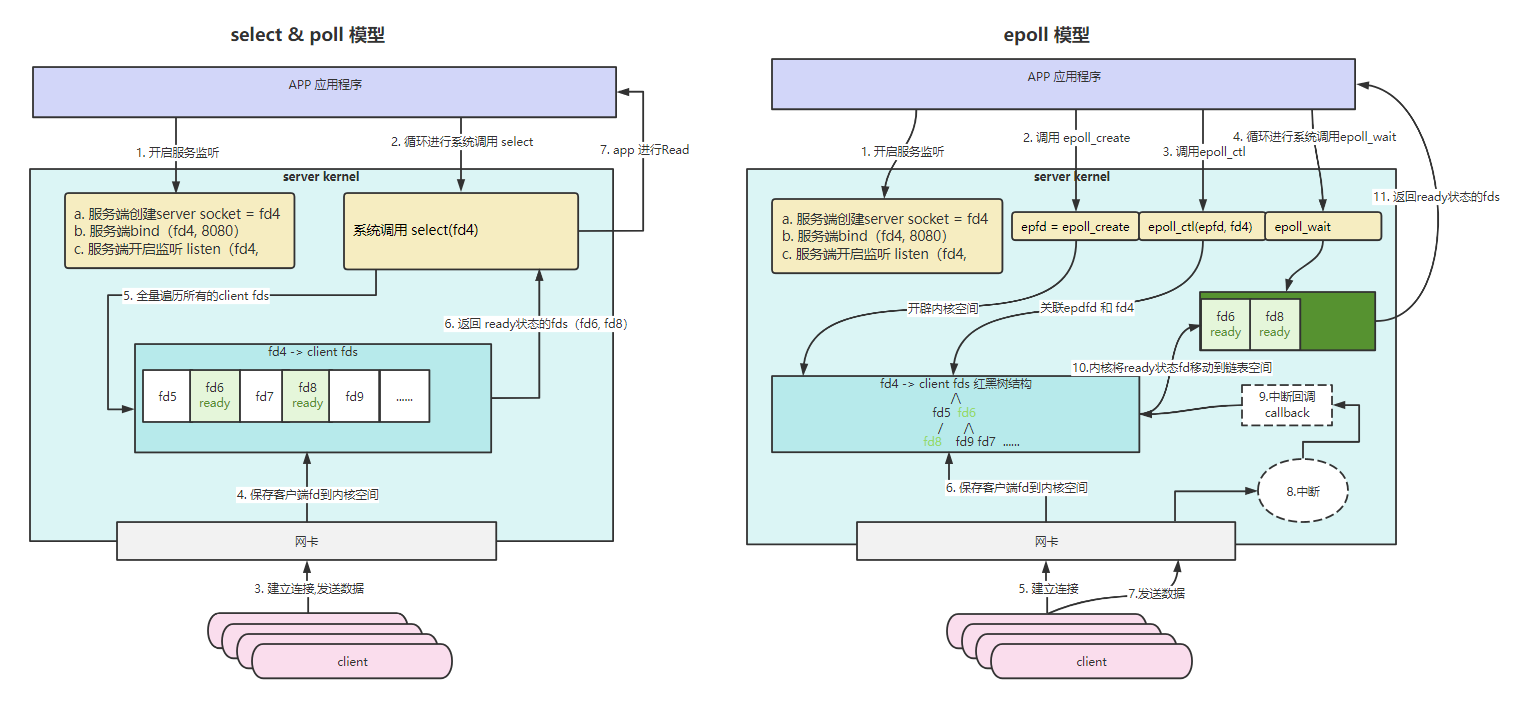
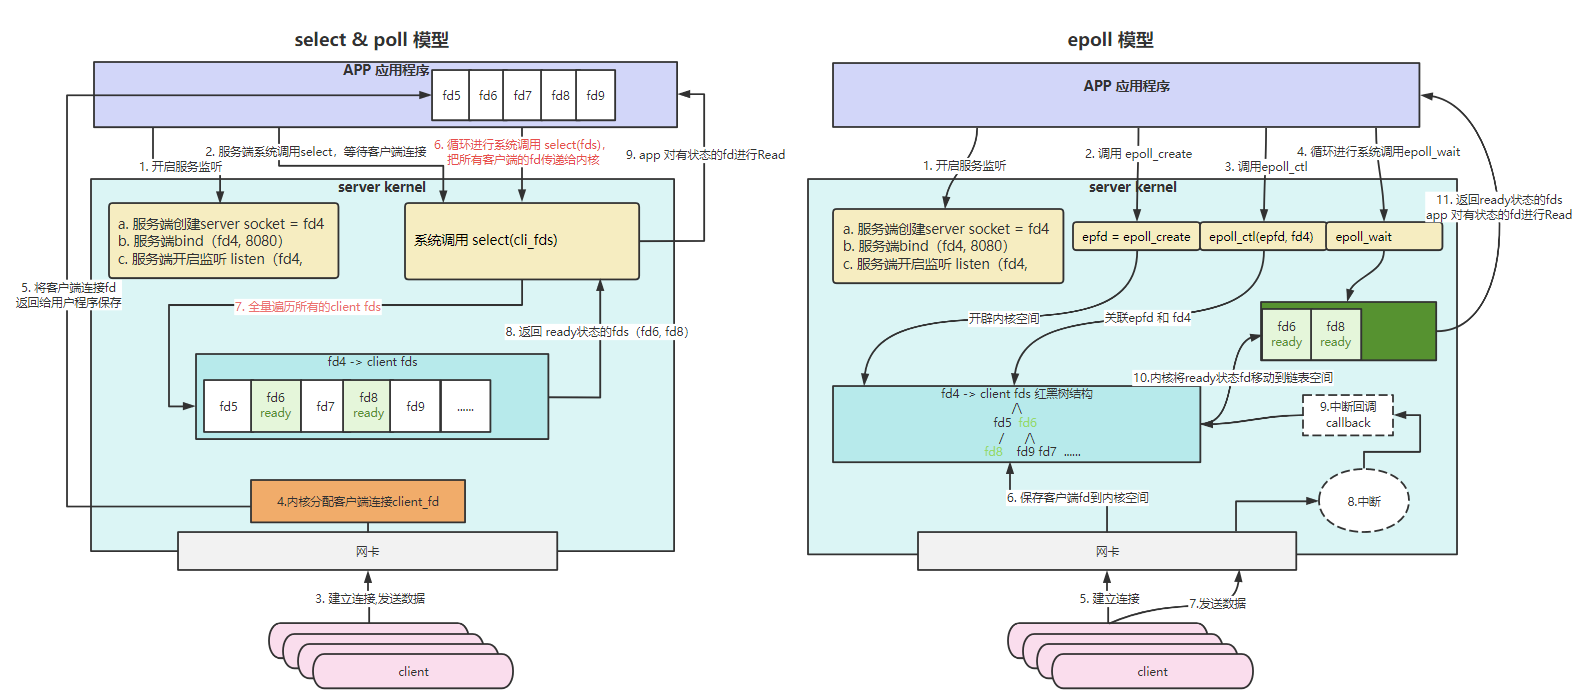
select poll epoll

diff --git a/src/main/java/net/io/nio/Select_PollServer.java b/src/main/java/net/io/nio/Select_PollServer.java
@@ -1,0 +1,96 @@
+package net.io.nio;
+
+import java.io.IOException;
+import java.net.InetSocketAddress;
+import java.nio.ByteBuffer;
+import java.nio.channels.*;
+import java.util.Iterator;
+import java.util.Set;
+
+/**
+ * @author leofee
+ */
+public class Select_PollServer {
+
+    static Selector selector;
+
+    public static void main(String[] args) throws IOException {
+
+        // fd4 = socket(
+        ServerSocketChannel serverSocketChannel = ServerSocketChannel.open()
+                // bind(fd4, 8090)
+                // listen(fd4)
+                .bind(new InetSocketAddress("localhost", 8090));
+        serverSocketChannel.configureBlocking(false);
+
+        // epfd = epoll_create()
+        selector = Selector.open();
+        // 如果是epoll，系统调用为 epoll_ctl(epfd, fd4, EPOLL_IN)
+        serverSocketChannel.register(selector, SelectionKey.OP_ACCEPT);
+
+        while (true) {
+            try {
+                // 如果是select，poll，则系统调用为select(fd4
+                // 如果是epoll，则系统调用为epoll_wait()
+                // timeout = 0 ，则表示阻塞的，但是selector有wakeup()方法，能打断阻塞
+                while (selector.select(500) > 0) {
+                    // 返回有状态的fds
+                    Set<SelectionKey> keys = selector.selectedKeys();
+                    Iterator<SelectionKey> iterator = keys.iterator();
+                    while (iterator.hasNext()) {
+                        SelectionKey key = iterator.next();
+                        iterator.remove();
+                        if (key.isAcceptable()) {
+                            handleAccept(key);
+                        }
+
+                        if (key.isReadable()) {
+                            handleRead(key);
+                        }
+                    }
+                }
+            } catch (Exception e) {
+                e.printStackTrace();
+            }
+        }
+
+    }
+
+
+    private static void handleAccept(SelectionKey acceptKey) {
+        ServerSocketChannel channel = (ServerSocketChannel) acceptKey.channel();
+        try {
+            channel.configureBlocking(false);
+
+            // 最终目的是调用accept接收客户端
+            SocketChannel client = channel.accept();
+            client.configureBlocking(false);
+            ByteBuffer byteBuffer = ByteBuffer.allocateDirect(1024);
+
+            // 如果是select/poll，则将客户端的fd保存到jvm的空间内，下次传递给内核判断是否可以R/W
+            // 如果是epoll，则是epoll_ctl，将客户端fd放入到内核空间的红黑树中
+            client.register(selector, SelectionKey.OP_READ, byteBuffer);
+            System.out.println("客户端连接:" + client.getRemoteAddress());
+        } catch (IOException e) {
+            e.printStackTrace();
+        }
+    }
+
+    private static void handleRead(SelectionKey readKey) {
+        SocketChannel channel = (SocketChannel) readKey.channel();
+        try {
+            channel.configureBlocking(false);
+            ByteBuffer byteBuffer = (ByteBuffer) readKey.attachment();
+            int read = channel.read(byteBuffer);
+            if (read > 0) {
+                byteBuffer.flip();
+                byte[] data = new byte[byteBuffer.limit()];
+                byteBuffer.get(data);
+                System.out.println("读取客户端：" + channel.getRemoteAddress() + " data: " + new String(data));
+                byteBuffer.clear();
+            }
+        } catch (IOException e) {
+            e.printStackTrace();
+        }
+    }
+}
